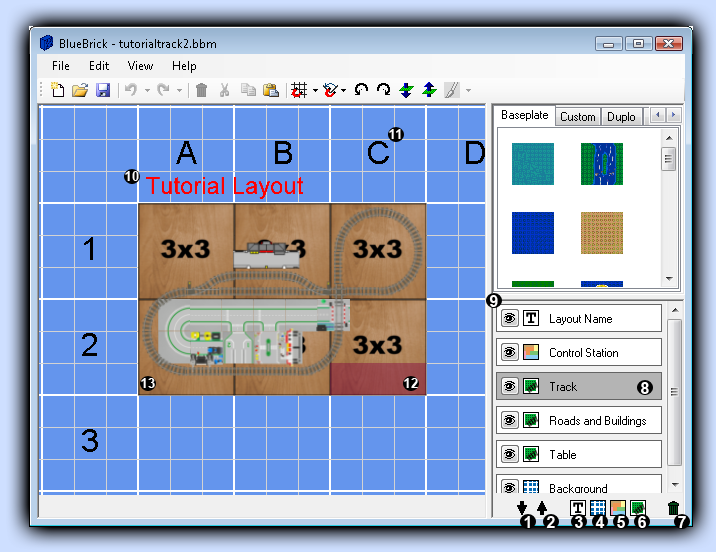
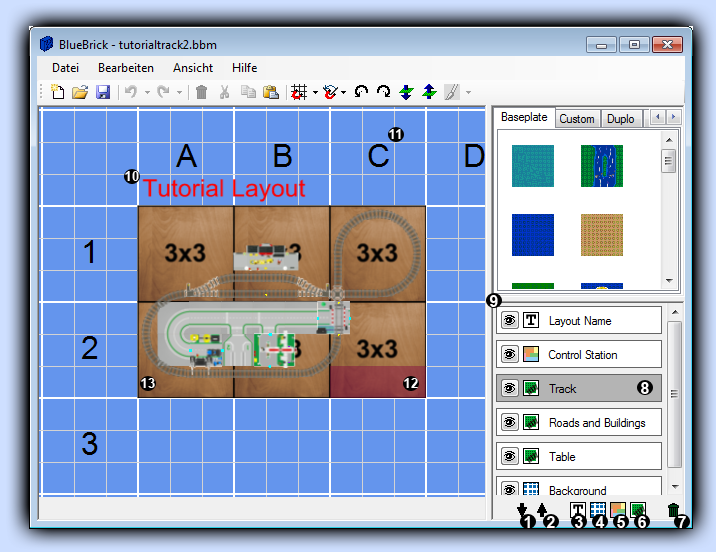
| change some german screenshot in the help file

Changed region(s): [[0.0307, 0.2464, 0.9525, 0.9855], [0.0615, 0.0616, 0.9525, 0.3388], [0.7067, 0.3696, 0.8911, 0.462]]

diff --git a/HelpProject/de/Part_Library_Folders.htm b/HelpProject/de/Part_Library_Folders.htm
@@ -14,7 +14,7 @@
 <CENTER>
 <DIV STYLE="background-image:url(../parts_folder.png); width:455px; height:331px; margin:0px;">
 <DIV STYLE="height:162px; margin:0px;">&nbsp;</DIV><BR>
-<DIV STYLE="color:red; text-align:left;">&nbsp;&nbsp;&nbsp;&nbsp;&nbsp;&nbsp;&nbsp;&nbsp;&nbsp;&nbsp;&nbsp;&nbsp;&#x2190; This is the part library folder.</DIV>
+<DIV STYLE="color:red; text-align:left;">&nbsp;&nbsp;&nbsp;&nbsp;&nbsp;&nbsp;&nbsp;&nbsp;&nbsp;&nbsp;&nbsp;&nbsp;&#x2190; Das ist die Teile-Bibliothek.</DIV>
 </DIV>
 </CENTER>
 
